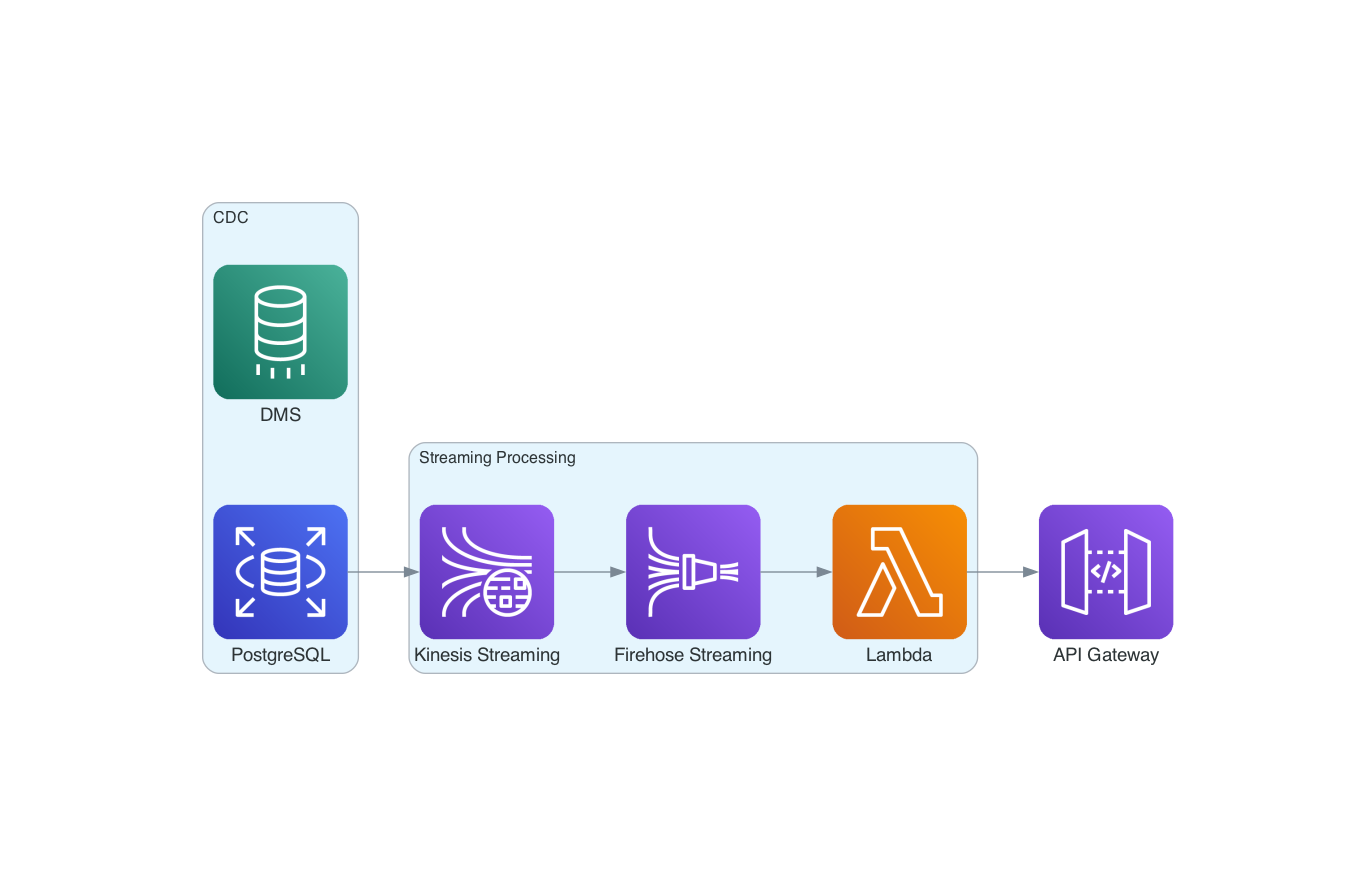
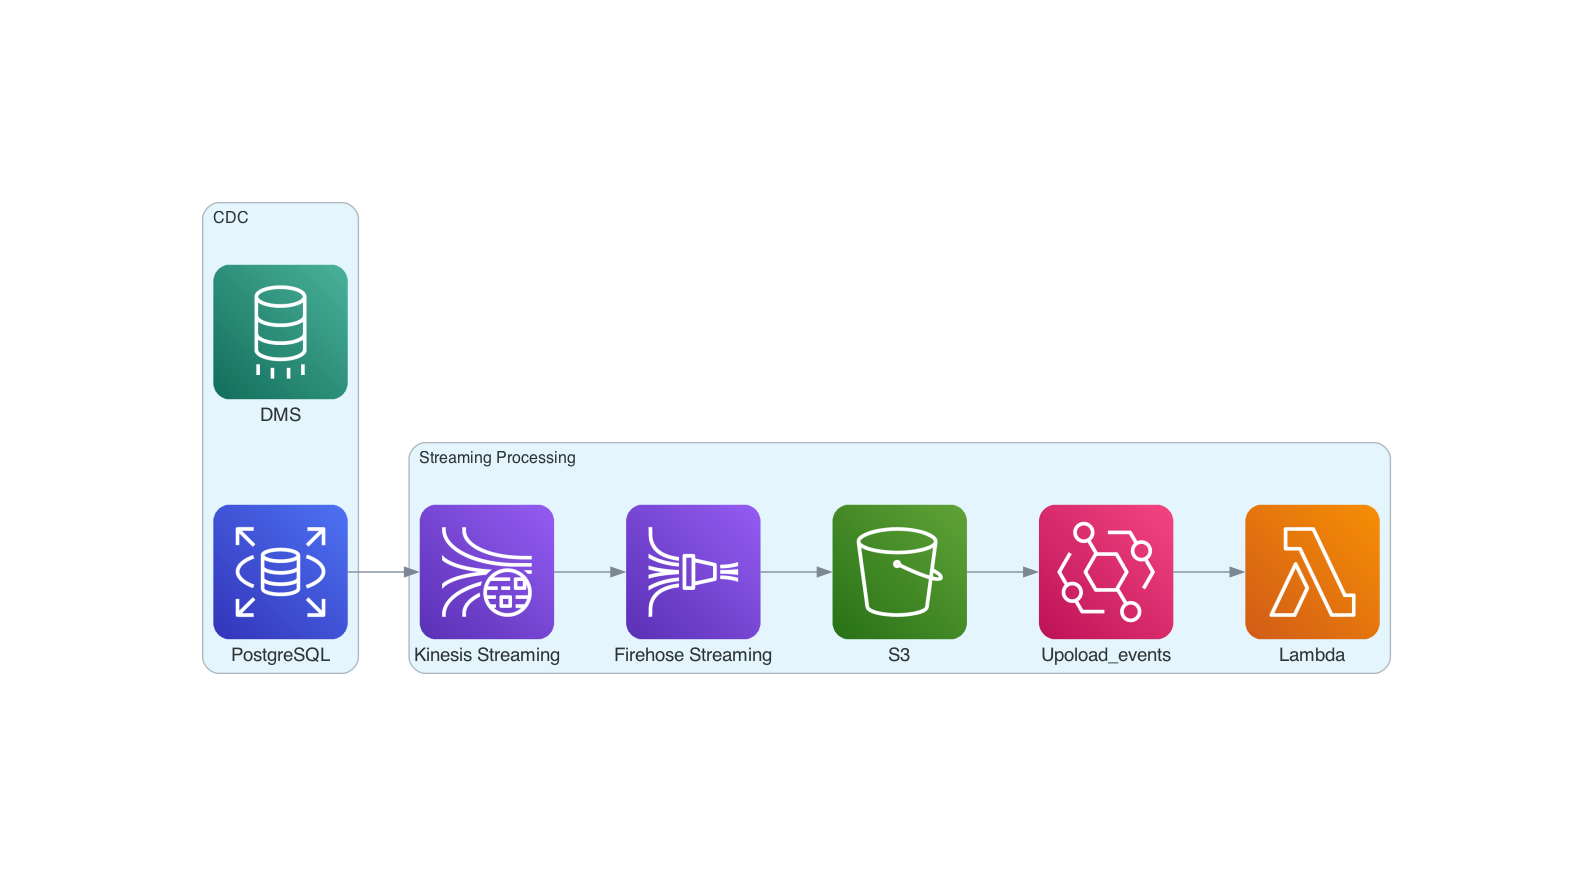
新增event lambad (#6)
* modify DMS & kinesis terraform parameters

* add lambda function evnet trigger

Changed region(s): [[0.1231, 0.2158, 0.8923, 0.7705]]

diff --git a/data_flow/terraform/modules/kinesis/lambda_function.py b/data_flow/terraform/modules/kinesis/lambda_function.py
@@ -1,0 +1,25 @@
+import base64
+import json
+
+def lambda_handler(event, context):
+    output = []
+
+    for record in event['records']:
+        payload = base64.b64decode(record['data']).decode('utf-8')
+
+        try:
+            json_payload = json.loads(payload)
+        except json.JSONDecodeError:
+            json_payload = {"message": payload}
+
+        json_data = json.dumps(json_payload) + '\n'
+
+        output_record = {
+            'recordId': record['recordId'],
+            'result': 'Ok',
+            'data': base64.b64encode(json_data.encode('utf-8')).decode('utf-8')
+        }
+
+        output.append(output_record)
+
+    return {'records': output}

diff --git a/data_flow/README.md b/data_flow/README.md
@@ -6,4 +6,4 @@
  - 透過lambda調用API gateway，並取得模型推論結果
  - 將結果存入SQS，並觸發lambda將結果導入Topics (這邊可以設定不同的職缺內容)
  - 使用者訂閱相關內容，即可收到結果
-![image](aws_architecture.png)
+![image](data_architecture.png)
